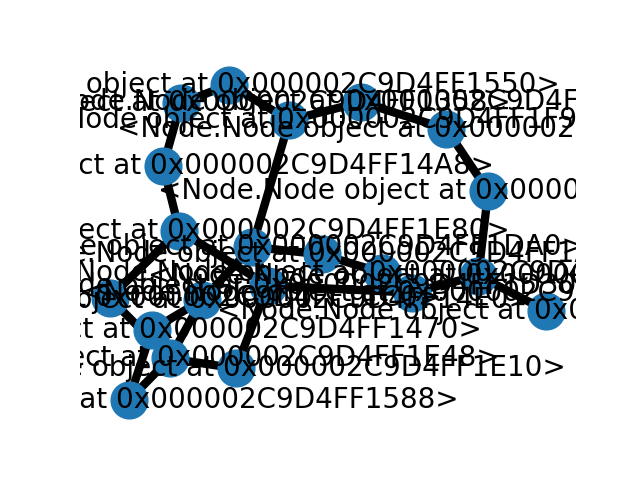
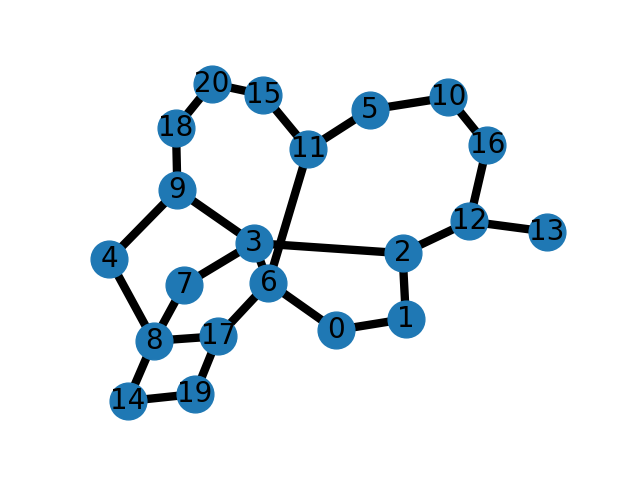
Rework du graphe pour contenir des attributs selon la facon networkx

Changed region(s): [[0.125, 0.125, 0.9062, 0.875]]

diff --git a/TP1/FileHandler.py b/TP1/FileHandler.py
@@ -21,11 +21,11 @@ def fillGraphFromFile(fileName):
         elif(secondePartie == False) :
             #On lit des nodes, on s'attends a 4 chiffres
             inputNode = [int(x) for x in line.split(',')]
-            nodeList.append(n.Node(inputNode[0],inputNode[1],inputNode[2],inputNode[3]))
+            graphEntrepot.add_node(inputNode[0], nbA=inputNode[1], nbB = inputNode[2],nbC=inputNode[3] )
         else:
             #On lit des Arcs, on peuple le graphe
             intputGraph = [int(x) for x in line.split(',')]
-            graphEntrepot.add_edge(nodeList[intputGraph[0]], nodeList[intputGraph[1]], weight=intputGraph[2])
+            graphEntrepot.add_edge(intputGraph[0], intputGraph[1], weight=intputGraph[2])
 
     f.close()
     return graphEntrepot

diff --git a/TP1/Helloworld.py b/TP1/Helloworld.py
@@ -20,6 +20,7 @@ nx.draw_networkx_edges(G,pos,edgelist=esmall,
                     width=6,alpha=0.5,edge_color='b',style='dashed')
 
 # labels
+
 nx.draw_networkx_labels(G,pos,font_size=20,font_family='sans-serif')
 
 plt.axis('off')
